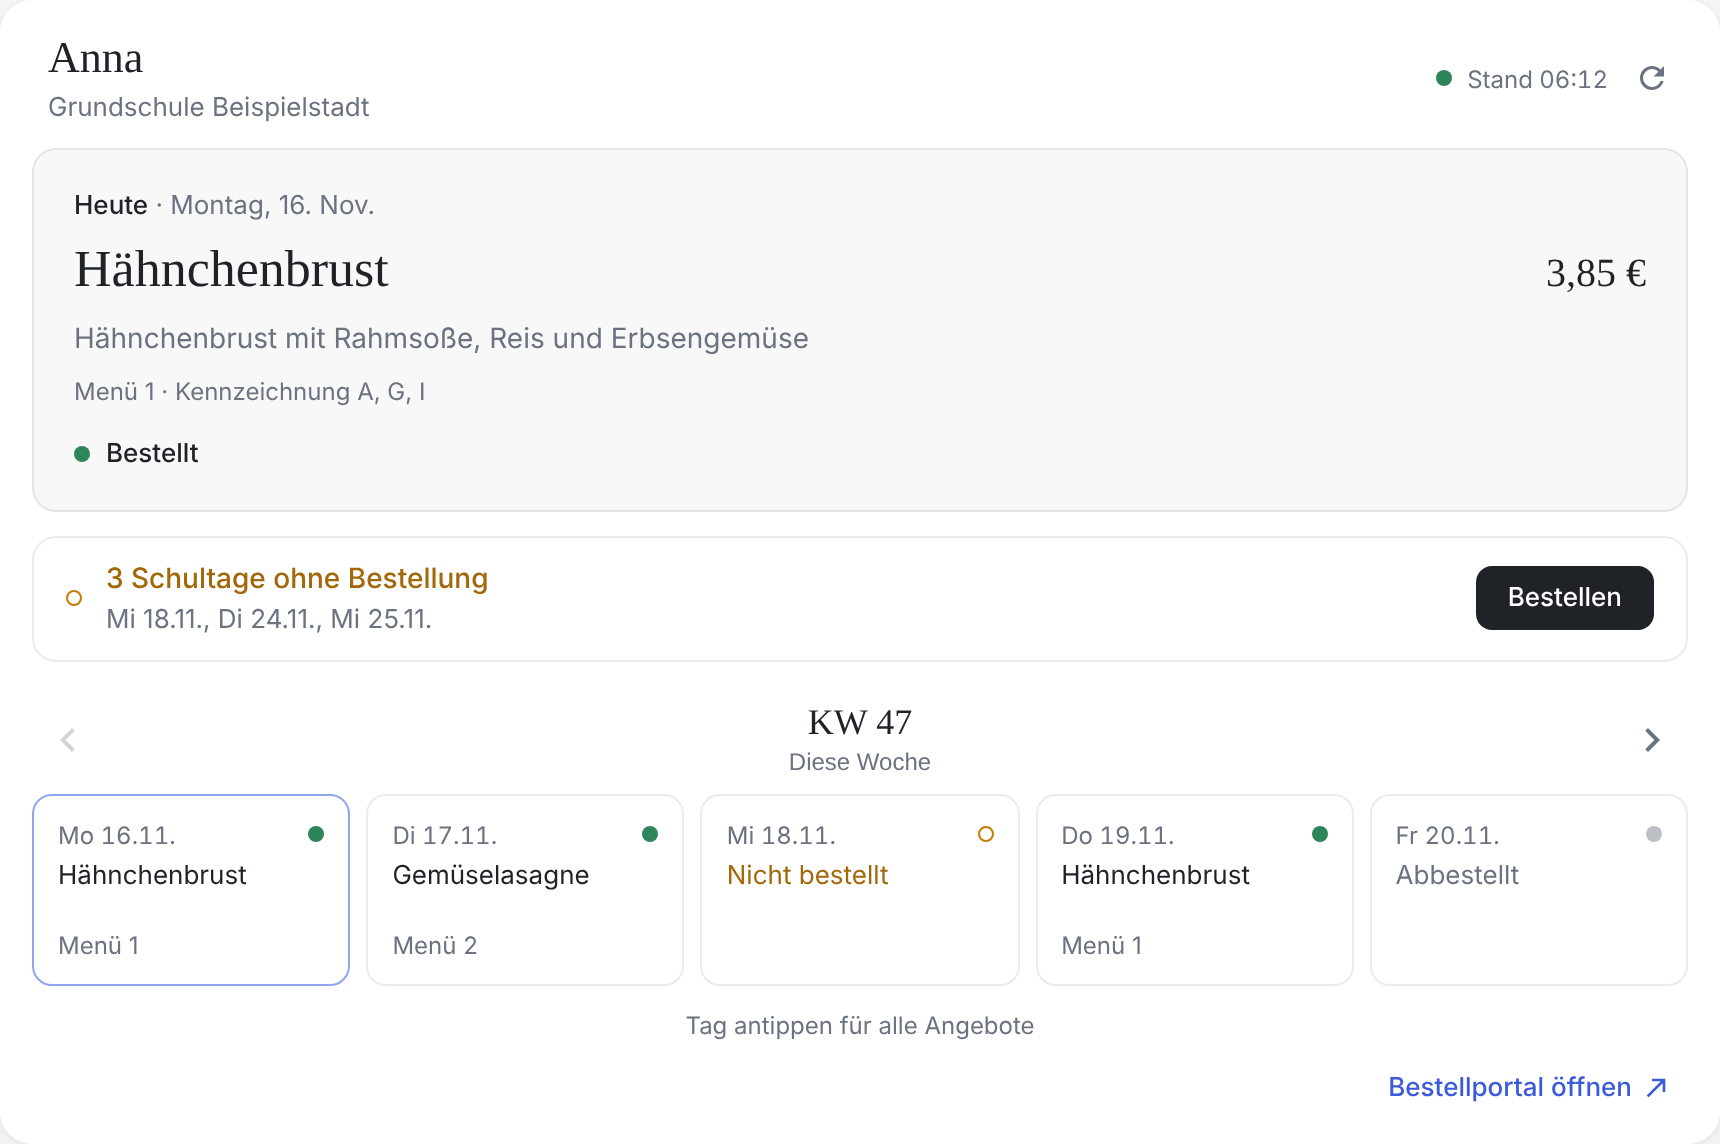
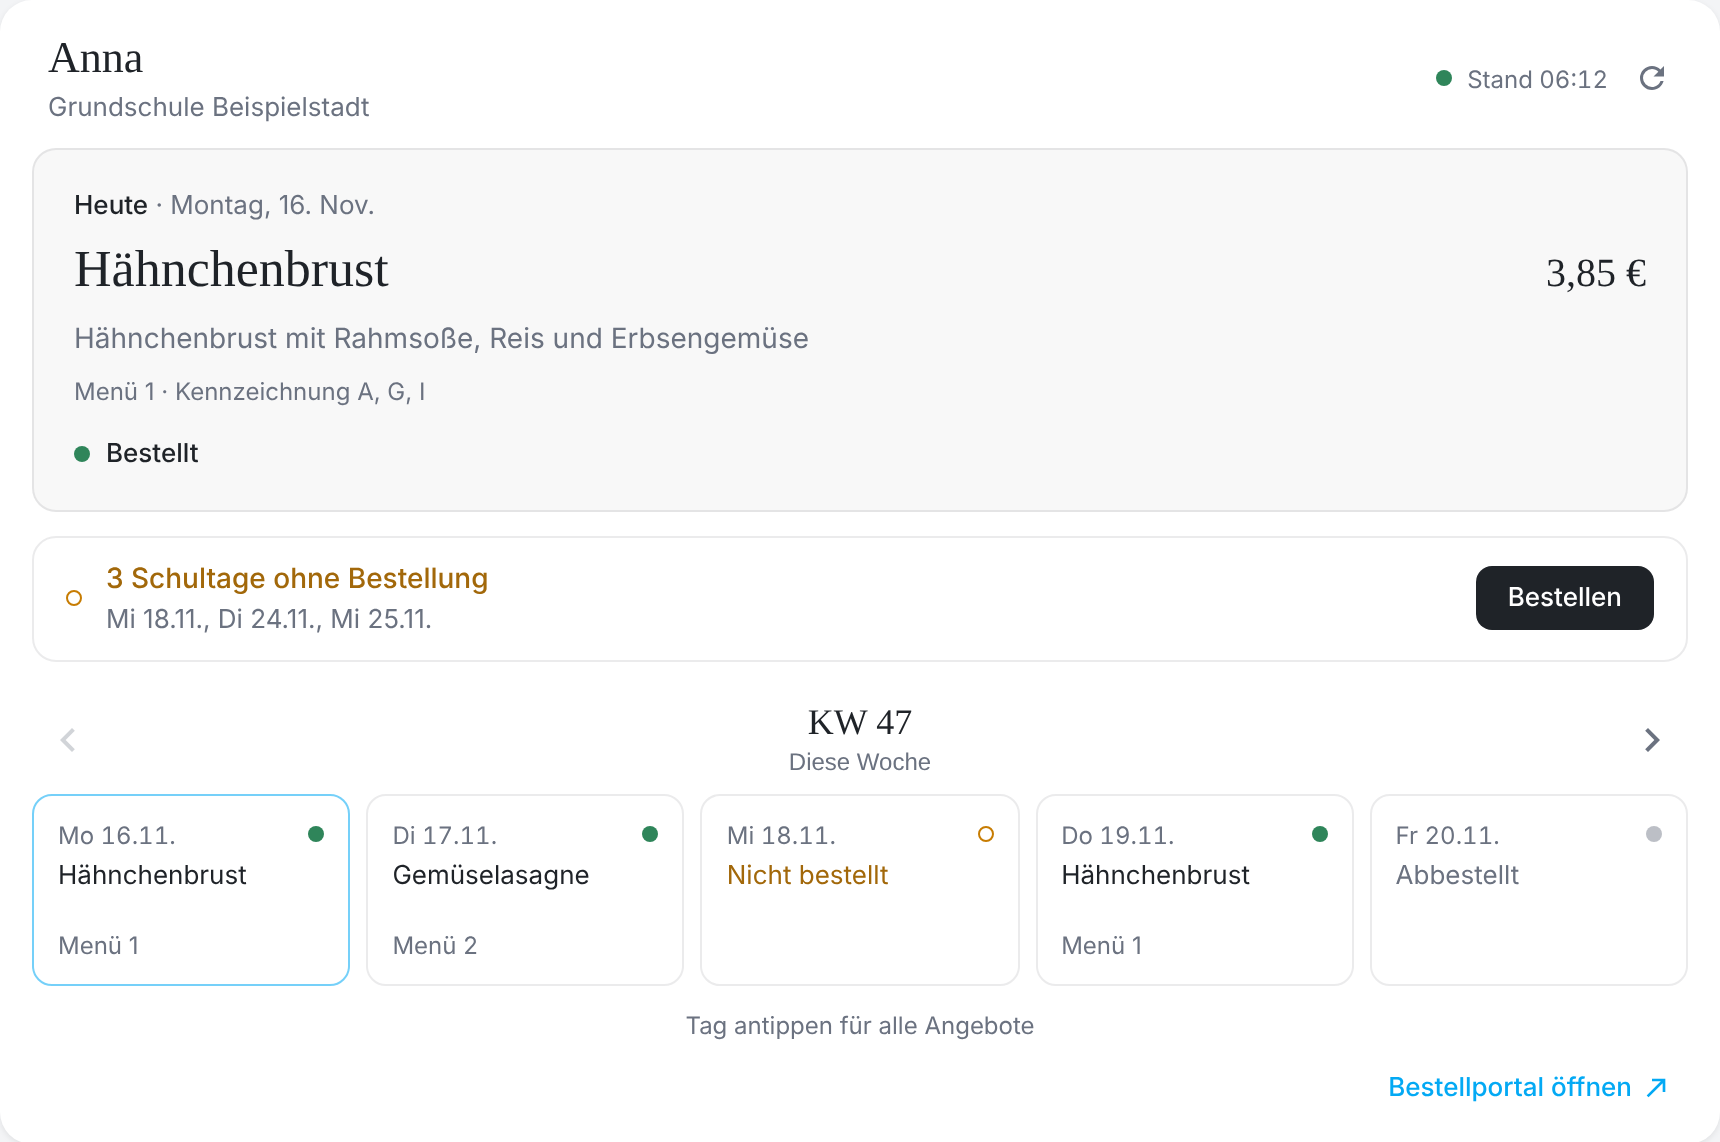
Screenshots der überarbeiteten Karte

diff --git a/README.md b/README.md
@@ -48,9 +48,9 @@ Die Karte `custom:schulessen-card` kommt mit der Integration und wird automatisc
 |---|---|
 | ![Karte hell](docs/karte-hell.png) | ![Karte dunkel](docs/karte-dunkel.png) |
 
-| Kompakt | Smartphone |
-|---|---|
-| ![Kompakte Karte](docs/karte-kompakt.png) | ![Karte auf dem Smartphone](docs/karte-mobil.png) |
+Kompakt für die Übersicht und auf dem Smartphone:
+
+![Kompakte Karte und Smartphone-Ansicht](docs/karte-kompakt-mobil.png)
 
 Die Screenshots zeigen Beispieldaten.
 
